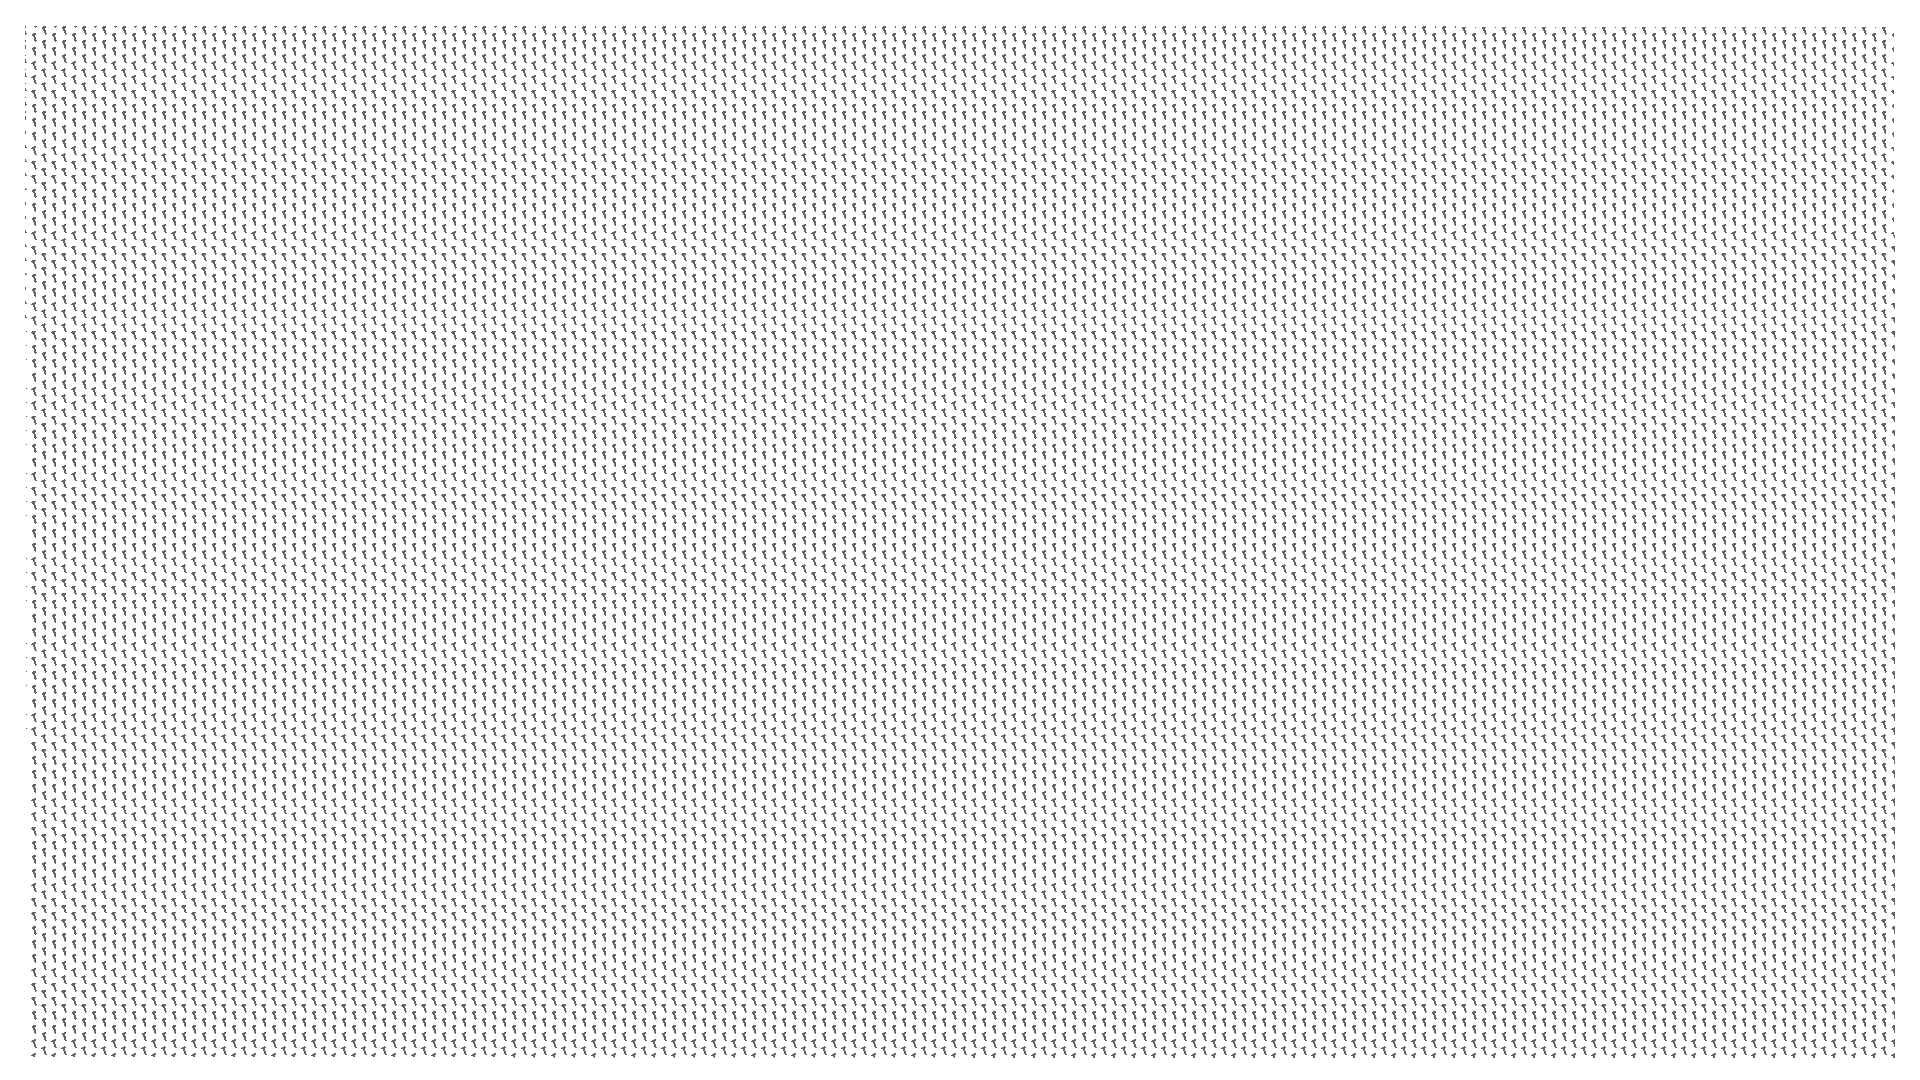
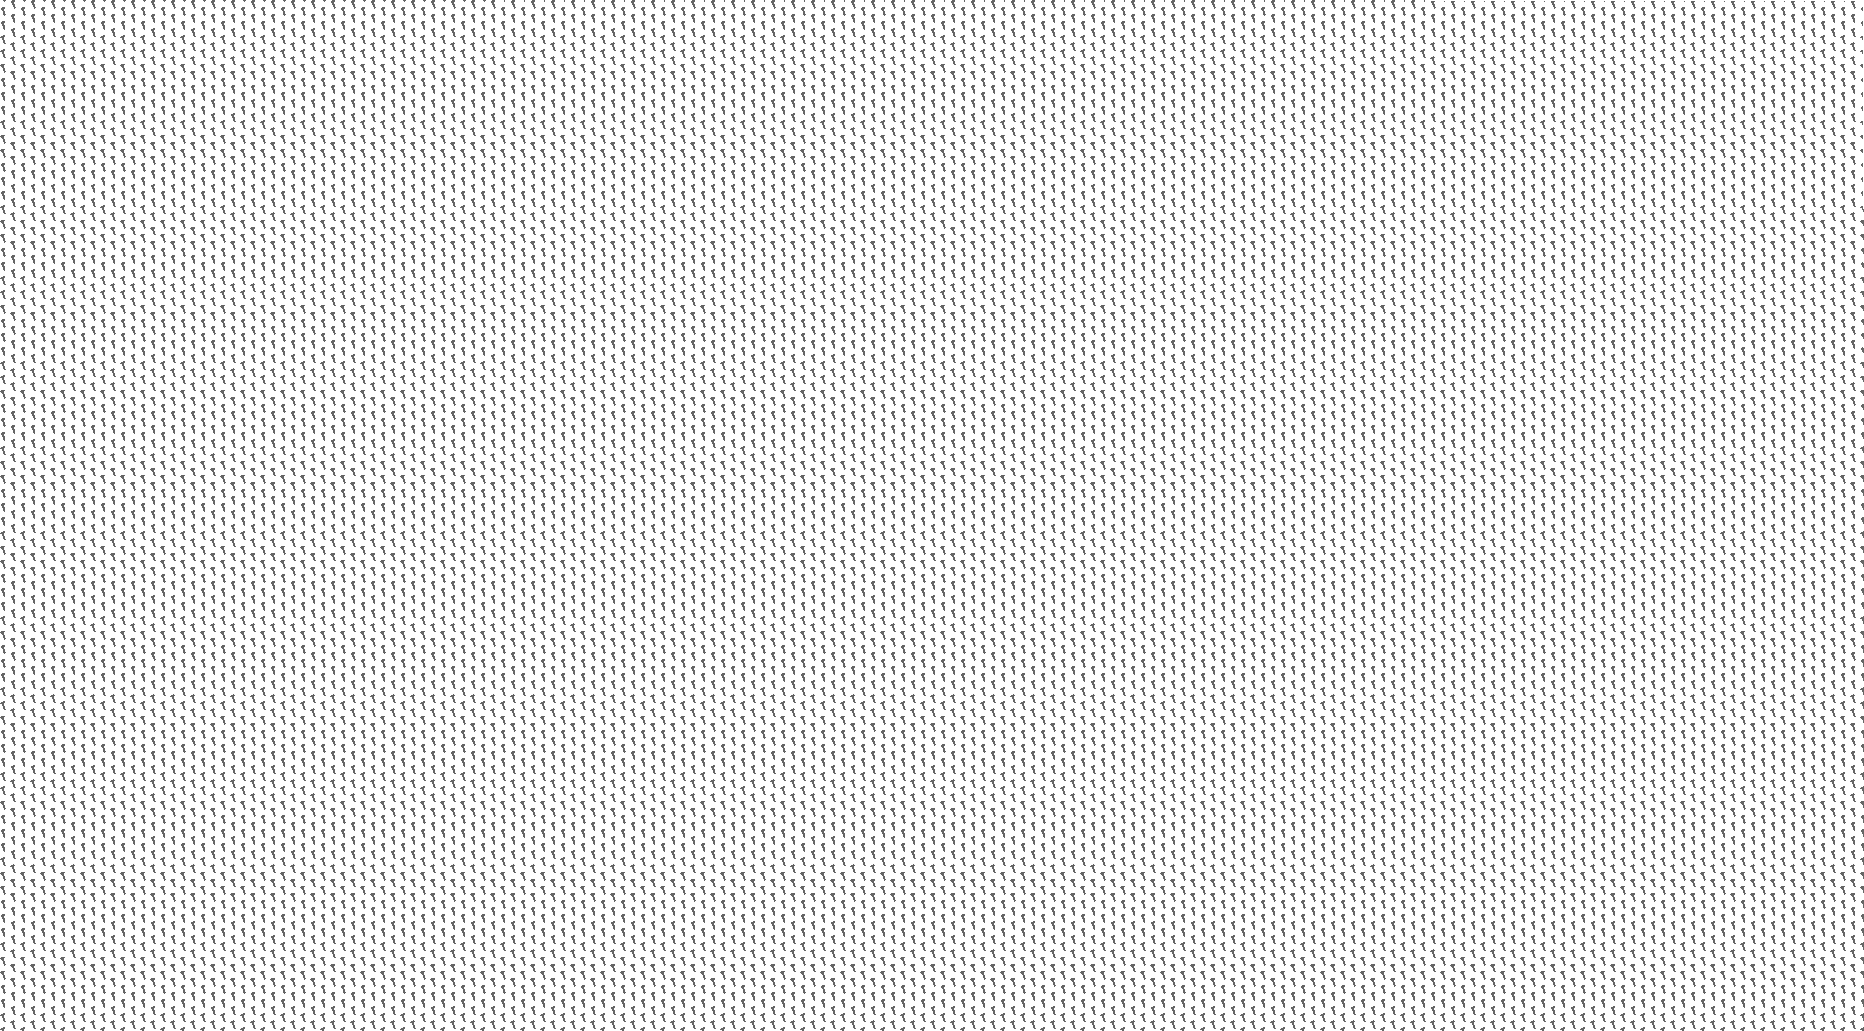
Moved background border from png to css

diff --git a/css/style.css b/css/style.css
@@ -23,17 +23,24 @@ a {
     text-decoration: none;
 }
 
+section {
+    border-style: solid;
+    border-width: 32px;
+}
+
 .header-section {
     height: 100vh;
     background-color: #FFF69B;
     background-image: url('../images/background_pattern_yellow.png');
     background-size: cover;
+    border-color: #FFF69B;
 }
 
 .content-section {
     background-color: #000000;
     background-image: url('../images/background_pattern_grey.png');
     background-size: cover;
+    border-color: #000000;
     display: flex;
     flex-direction: column;
     justify-content: center;
